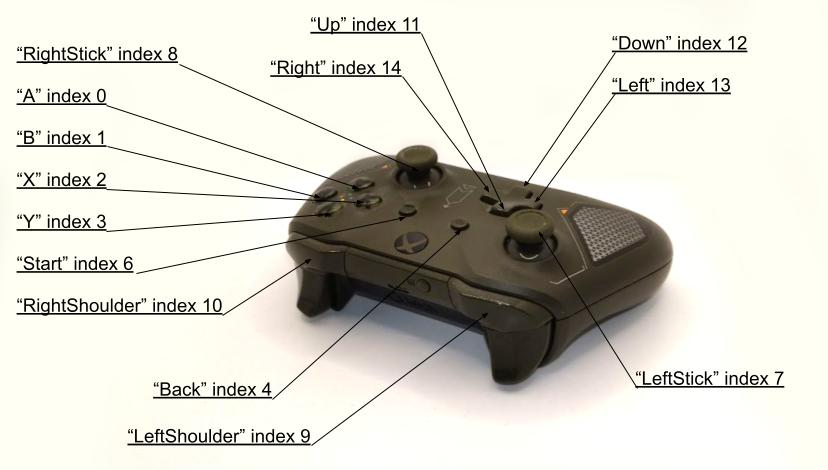
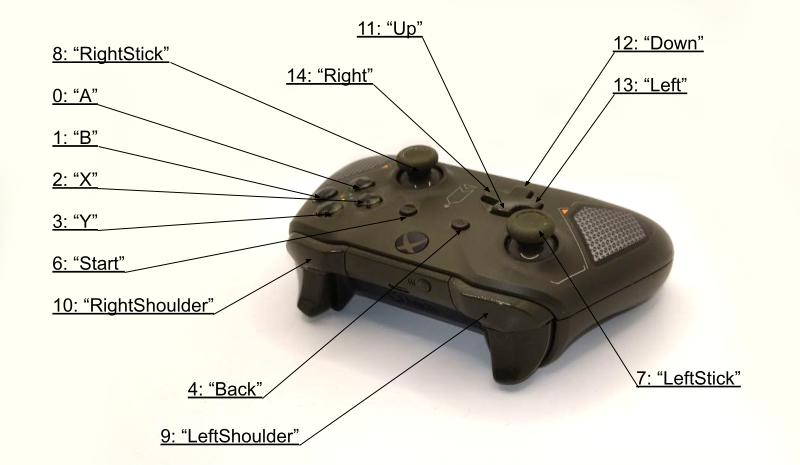
Axis

diff --git a/pages/documentation/framework-overview/input.md b/pages/documentation/framework-overview/input.md
@@ -224,6 +224,8 @@ The InputMap JSON file contains an array, each of which has a key and a value fi
   - **neutral**, which is a floating-point value between -1.0 and 1.0 representing the neutral position of the axis. Default value of the field is 0.0.
   - **pressed**, which is a floating-point value between -1.0 and 1.0 representing the fully pressed position of the axis. Default value of the field is 1.0.
 
+![XBox Gamepad Axis Map](images/documentation/input/gamepad-axis.jpg)
+
 ```json
 "keys": [
     {
